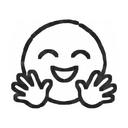
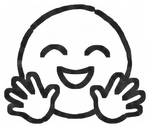
RSVP note: emojis sized and centred on the text, kept with their word
The emoji images are now cropped to their drawing, so CSS sizes them on the
text (smaller than before) and centres them on the letters, inside the line's
own height: the lines keep their spacing. The last word and its emoji can no
longer be split across two lines (it happened on phones). The form also opens
with the focus on the sheet, so the × no longer shows its dashed keyboard
outline after a tap (Safari).

diff --git a/components/invitation/RsvpDialog.tsx b/components/invitation/RsvpDialog.tsx
@@ -3,7 +3,7 @@
 
 import { useEffect, useRef, useState, type FormEvent } from "react";
 import { createPortal } from "react-dom";
-import Emoji from "./Emoji";
+import { WithEmoji } from "./Emoji";
 import { RSVP_TEXT, type Lang } from "./i18n";
 import { RSVP_ENDPOINT } from "./rsvp-config";
 
@@ -22,7 +22,12 @@ export default function RsvpDialog({ lang, open, onClose }: { lang: Lang; open: 
   useEffect(() => {
     const d = dialog.current;
     if (!d) return;
-    if (open && !d.open) d.showModal();
+    if (open && !d.open) {
+      d.showModal();
+      // showModal focuses the × button, which then shows its keyboard-focus outline (Safari does even
+      // after a tap): start with the focus on the sheet itself; Tab still reaches the ×
+      d.focus();
+    }
     if (!open && d.open) d.close();
   }, [open, mounted]);
 
@@ -43,14 +48,14 @@ export default function RsvpDialog({ lang, open, onClose }: { lang: Lang; open: 
 
   if (!mounted) return null;
   return createPortal(
-    <dialog ref={dialog} className="rsvp-dialog" onClose={onClose} aria-labelledby="rsvp-title" lang={lang}>
+    <dialog ref={dialog} className="rsvp-dialog" tabIndex={-1} onClose={onClose} aria-labelledby="rsvp-title" lang={lang}>
       <button type="button" className="rsvp-dialog__close" onClick={onClose} aria-label={t.close}>×</button>
       <div className="rsvp-dialog__inner">
         <img className="rsvp-dialog__rings" src="/assets/rings/rings.png" width={1536} height={960} alt="" />
         <h2 id="rsvp-title" className="rsvp-dialog__title">{t.title}</h2>
         {status !== "sent" && (
           <p className="rsvp-dialog__intro">
-            {t.intro[0]}&nbsp;<Emoji name="heart-hands" /> {t.intro[1]}&nbsp;<Emoji name="hugging" />
+            <WithEmoji text={t.intro[0]} name="heart-hands" /> <WithEmoji text={t.intro[1]} name="hugging" />
           </p>
         )}
 

diff --git a/components/invitation/Emoji.tsx b/components/invitation/Emoji.tsx
@@ -1,9 +1,27 @@
 /* eslint-disable @next/next/no-img-element */
 // The hand-drawn emojis used in the text (art/emojis, imported by tools/import_emojis.py): drawn in the
 // house's charcoal line, in place of the colour emojis, which would clash with the pencil drawing.
+// Each image is cropped to its drawing, so CSS sizes it on the text (.emoji--name in globals.css).
 // They only decorate the words next to them, so screen readers skip them.
-const EMOJIS = { "heart-hands": "🫶", hugging: "🤗" } as const;
+const EMOJIS = {
+  "heart-hands": { emoji: "🫶", width: 222, height: 128 },
+  hugging: { emoji: "🤗", width: 150, height: 128 },
+} as const;
 
-export default function Emoji({ name }: { name: keyof typeof EMOJIS }) {
-  return <img className={`emoji emoji--${name}`} src={`/assets/emoji/${name}.png`} width={128} height={128} alt="" />;
+export type EmojiName = keyof typeof EMOJIS;
+
+export default function Emoji({ name }: { name: EmojiName }) {
+  const { width, height } = EMOJIS[name];
+  return <img className={`emoji emoji--${name}`} src={`/assets/emoji/${name}.png`} width={width} height={height} alt="" />;
+}
+
+// A sentence ending with an emoji: the last word and the emoji stay together on one line.
+export function WithEmoji({ text, name }: { text: string; name: EmojiName }) {
+  const cut = text.lastIndexOf(" ") + 1;
+  return (
+    <>
+      {text.slice(0, cut)}
+      <span className="nobreak">{text.slice(cut)}&nbsp;<Emoji name={name} /></span>
+    </>
+  );
 }

diff --git a/app/globals.css b/app/globals.css
@@ -281,6 +281,7 @@ html:has(.rsvp-dialog[open]) { overflow: hidden; }
   border: 0;
   cursor: pointer;
 }
+.rsvp-dialog:focus { outline: none; }
 .rsvp-dialog__close:focus-visible { outline: 1px dashed #6a6a6a; border-radius: 6px; }
 .rsvp-dialog__inner {
   max-width: 520px;
@@ -308,11 +309,14 @@ html:has(.rsvp-dialog[open]) { overflow: hidden; }
 }
 .emoji {
   display: inline-block;
-  width: 2.2em;
-  height: 2.2em;
-  vertical-align: -.68em;
-  margin: -.5em -.1em;      /* the drawing's blank margin doesn't push the lines apart */
+  width: auto;
+  margin: 0 .06em;
 }
+/* each emoji is cropped to its drawing: sized on the text and centred on the letters, inside the
+   line's own height (so the lines keep their spacing) */
+.emoji--heart-hands { height: .8em; vertical-align: -.07em; }
+.emoji--hugging { height: 1.18em; vertical-align: -.3em; }
+.nobreak { white-space: nowrap; }
 .rsvp-dialog__done { text-align: center; margin-top: clamp(26px, 5vh, 44px); }
 .rsvp-dialog__thanks { font-size: 19px; letter-spacing: .06em; line-height: 1.6; margin-bottom: 32px; }
 

diff --git a/tools/import_emojis.py b/tools/import_emojis.py
@@ -1,5 +1,5 @@
 """Import the hand-drawn emojis used in the RSVP form (art/emojis/1024, from the emoji pack) into
-public/assets/emoji at 128 px.
+public/assets/emoji, cropped to the drawing, 128 px tall.
 
 The pack's pen lines are very fine (about 14 px wide in the 1024 px heart hands, 7 px in the hug, which
 is also drawn at about 60 % opacity): shrunk to text size (~35 CSS px) they would be under half a pixel
@@ -20,7 +20,8 @@ EMOJIS = {                               # name: stroke thickening in the 1024 p
     "heart-hands": 15,                   # 14 px strokes -> ~28
     "hugging": 21,                       # 7 px strokes -> ~27
 }
-SIZE = 128                               # crisp for ~35 CSS px on 3x screens
+HEIGHT = 128                             # px; the emojis show at ~13–20 CSS px tall: crisp on 3x screens
+PAD = 0.03                               # clear margin kept around the drawing, as a share of its size
 
 OUT.mkdir(parents=True, exist_ok=True)
 for name, grow in EMOJIS.items():
@@ -33,6 +34,12 @@ for name, grow in EMOJIS.items():
     a = np.clip(a * 250 / p90, 0, 255)   # the strokes' cores at full ink, soft edges kept
     ink = Image.new("RGBA", im.size, INK + (0,))
     ink.putalpha(Image.fromarray(a.astype(np.uint8)))
-    small = ink.convert("RGBa").resize((SIZE, SIZE), Image.LANCZOS).convert("RGBA")
+    # crop to the drawing itself (the pack's square canvas has wide blank margins), so the page can
+    # size and align the emoji on its ink rather than on empty space
+    x0, y0, x1, y1 = ink.getchannel("A").point(lambda v: 255 if v > 12 else 0).getbbox()
+    pad = round(PAD * max(x1 - x0, y1 - y0))
+    ink = ink.crop((max(x0 - pad, 0), max(y0 - pad, 0), min(x1 + pad, ink.width), min(y1 + pad, ink.height)))
+    w = round(ink.width * HEIGHT / ink.height)
+    small = ink.convert("RGBa").resize((w, HEIGHT), Image.LANCZOS).convert("RGBA")
     small.save(OUT / f"{name}.png", optimize=True)
-    print(f"{name}: ink p90 {p90:.0f} -> 250, grow {grow}  ->  {OUT.relative_to(site)}/{name}.png")
+    print(f"{name}: ink p90 {p90:.0f} -> 250, grow {grow}  ->  {OUT.relative_to(site)}/{name}.png  {w}x{HEIGHT}")
